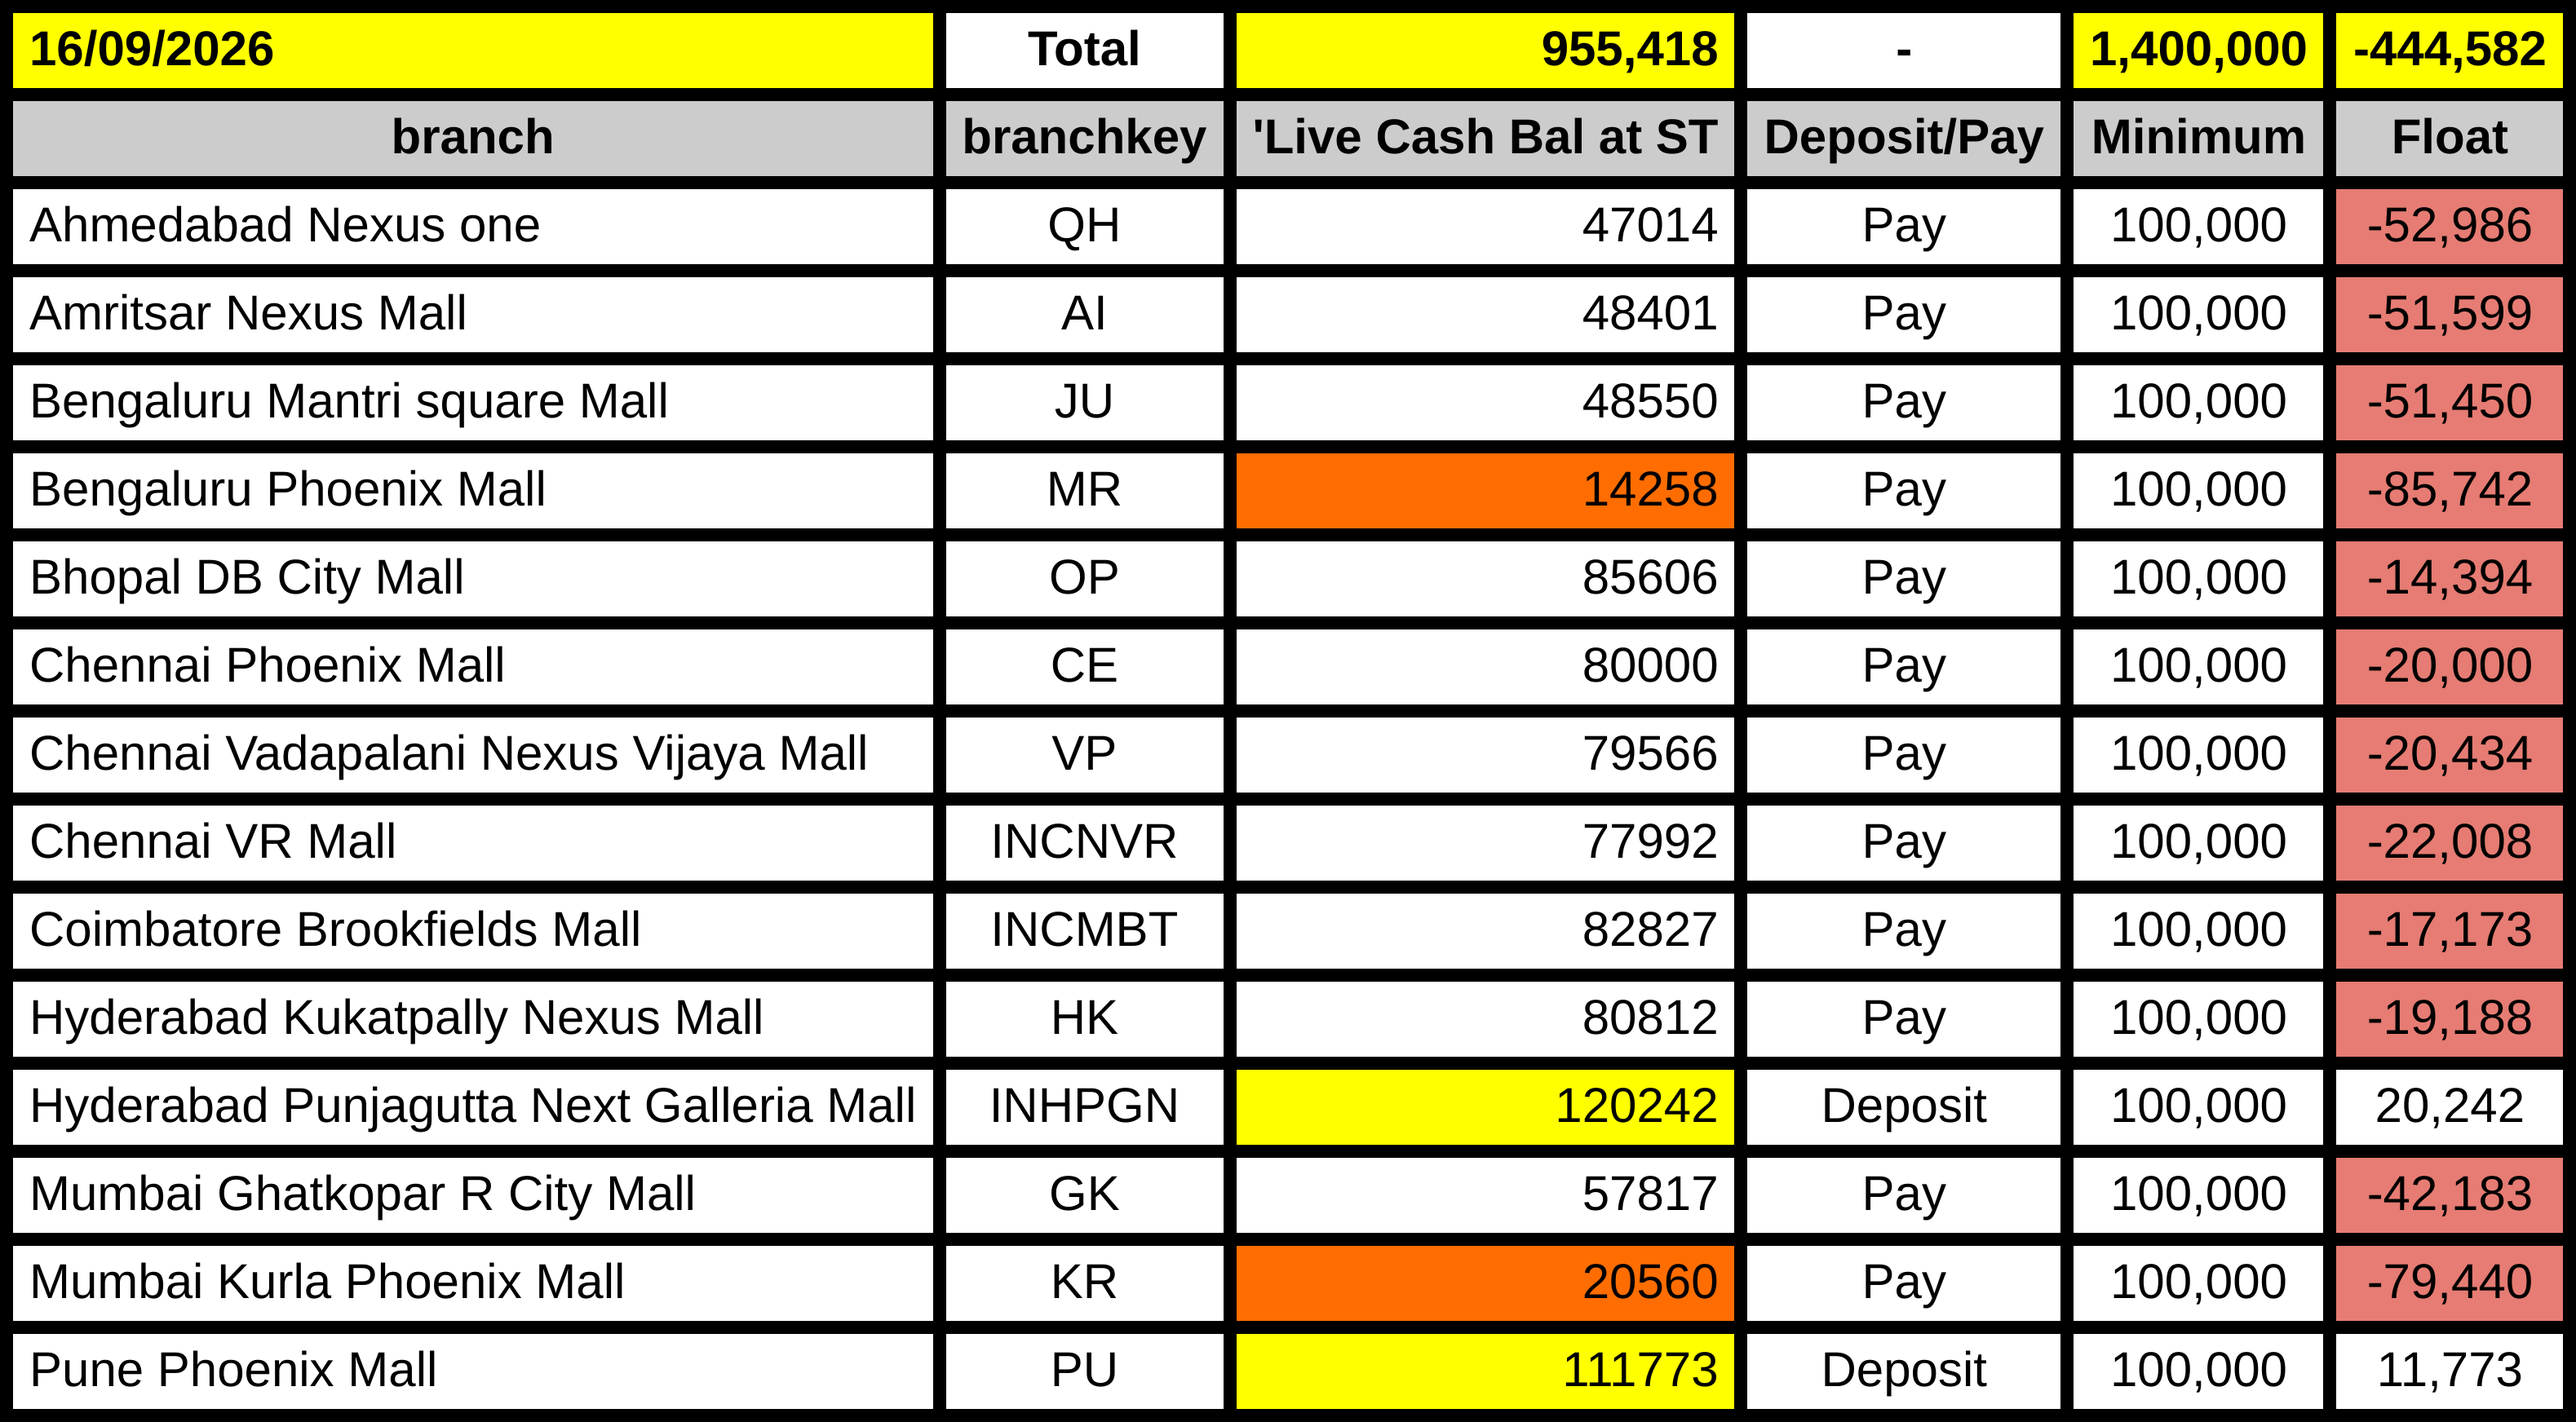
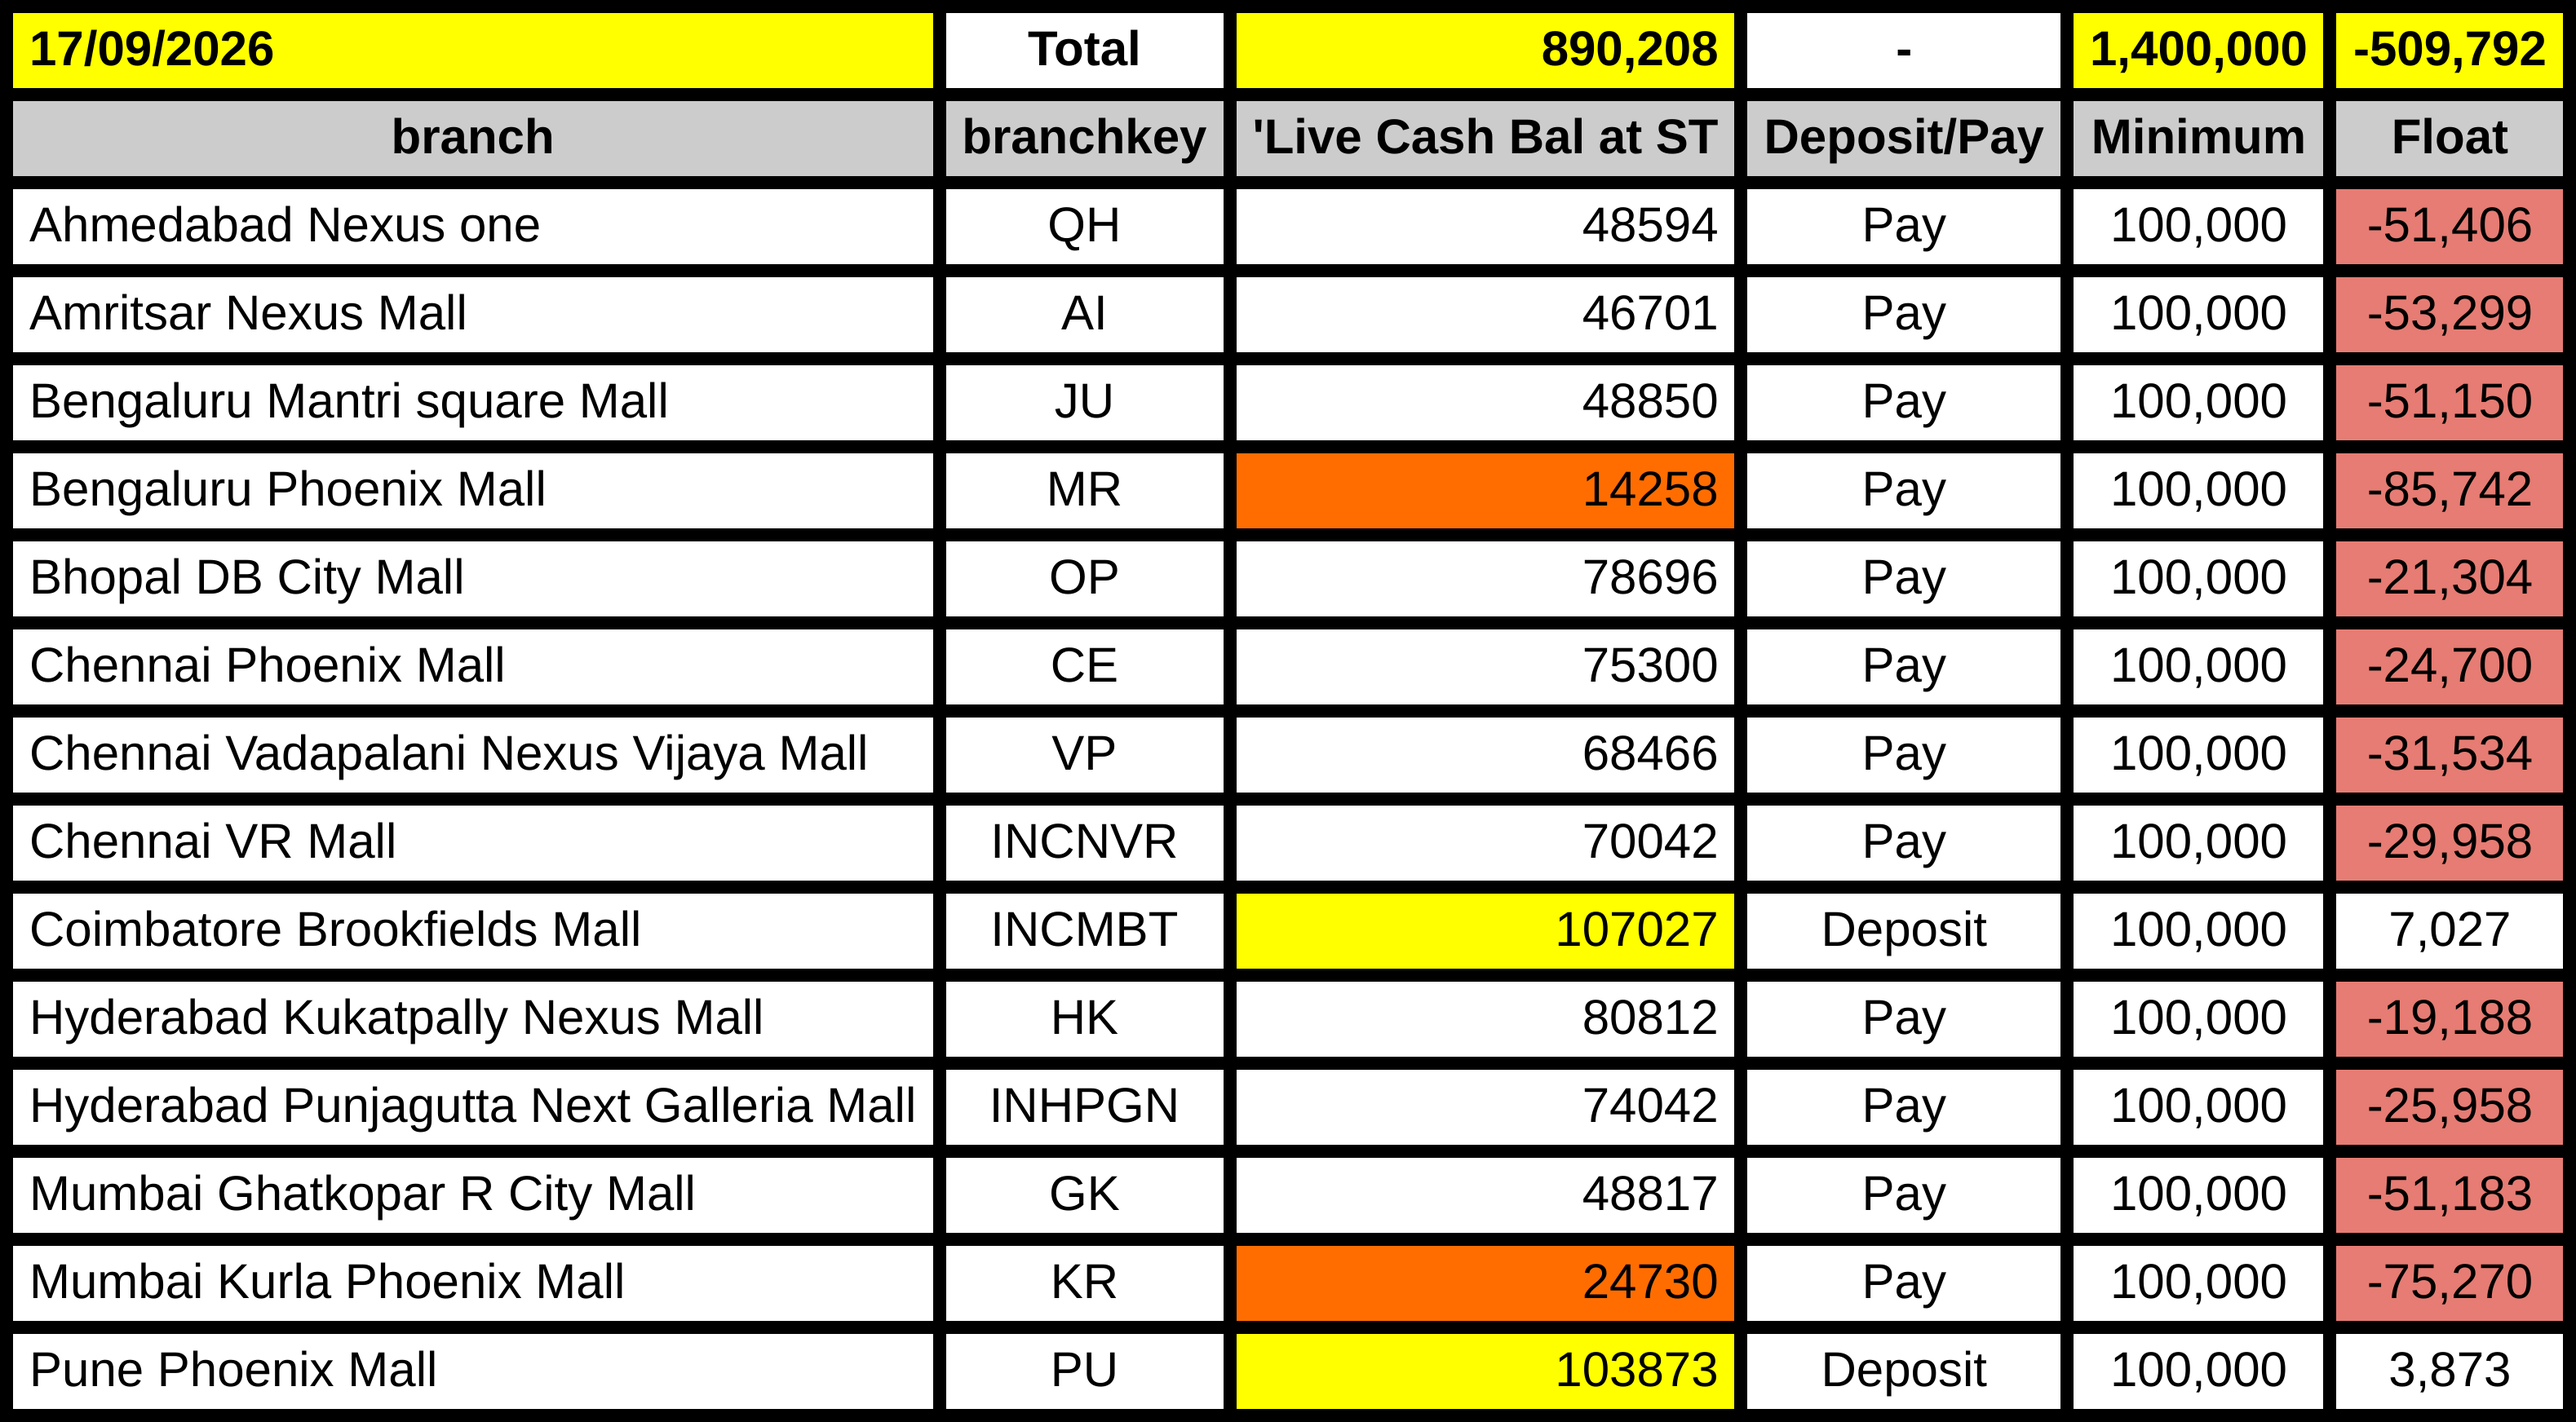
deploy: 1eb6ce62876c9d41067b4594acfaffc291ee4c8b

diff --git a/table.html b/table.html
@@ -21,7 +21,7 @@
           font-family: Arial, sans-serif;
           font-size: 30px;
           white-space: nowrap;
-        ">16/09/2026</td>
+        ">17/09/2026</td>
       
         <td style="
           background-color: #ffffff;
@@ -49,7 +49,7 @@
           font-family: Arial, sans-serif;
           font-size: 30px;
           white-space: nowrap;
-        ">955,418</td>
+        ">890,208</td>
       
         <td style="
           background-color: #ffffff;
@@ -91,7 +91,7 @@
           font-family: Arial, sans-serif;
           font-size: 30px;
           white-space: nowrap;
-        ">-444,582</td>
+        ">-509,792</td>
       </tr><tr>
         <td style="
           background-color: #cccccc;
@@ -217,7 +217,7 @@
           font-family: Arial, sans-serif;
           font-size: 30px;
           white-space: nowrap;
-        ">47014</td>
+        ">48594</td>
       
         <td style="
           background-color: #ffffff;
@@ -259,7 +259,7 @@
           font-family: Arial, sans-serif;
           font-size: 30px;
           white-space: nowrap;
-        ">-52,986</td>
+        ">-51,406</td>
       </tr><tr>
         <td style="
           background-color: #ffffff;
@@ -301,7 +301,7 @@
           font-family: Arial, sans-serif;
           font-size: 30px;
           white-space: nowrap;
-        ">48401</td>
+        ">46701</td>
       
         <td style="
           background-color: #ffffff;
@@ -343,7 +343,7 @@
           font-family: Arial, sans-serif;
           font-size: 30px;
           white-space: nowrap;
-        ">-51,599</td>
+        ">-53,299</td>
       </tr><tr>
         <td style="
           background-color: #ffffff;
@@ -385,7 +385,7 @@
           font-family: Arial, sans-serif;
           font-size: 30px;
           white-space: nowrap;
-        ">48550</td>
+        ">48850</td>
       
         <td style="
           background-color: #ffffff;
@@ -427,7 +427,7 @@
           font-family: Arial, sans-serif;
           font-size: 30px;
           white-space: nowrap;
-        ">-51,450</td>
+        ">-51,150</td>
       </tr><tr>
         <td style="
           background-color: #ffffff;
@@ -553,7 +553,7 @@
           font-family: Arial, sans-serif;
           font-size: 30px;
           white-space: nowrap;
-        ">85606</td>
+        ">78696</td>
       
         <td style="
           background-color: #ffffff;
@@ -595,7 +595,7 @@
           font-family: Arial, sans-serif;
           font-size: 30px;
           white-space: nowrap;
-        ">-14,394</td>
+        ">-21,304</td>
       </tr><tr>
         <td style="
           background-color: #ffffff;
@@ -637,7 +637,7 @@
           font-family: Arial, sans-serif;
           font-size: 30px;
           white-space: nowrap;
-        ">80000</td>
+        ">75300</td>
       
         <td style="
           background-color: #ffffff;
@@ -679,7 +679,7 @@
           font-family: Arial, sans-serif;
           font-size: 30px;
           white-space: nowrap;
-        ">-20,000</td>
+        ">-24,700</td>
       </tr><tr>
         <td style="
           background-color: #ffffff;
@@ -721,7 +721,7 @@
           font-family: Arial, sans-serif;
           font-size: 30px;
           white-space: nowrap;
-        ">79566</td>
+        ">68466</td>
       
         <td style="
           background-color: #ffffff;
@@ -763,7 +763,7 @@
           font-family: Arial, sans-serif;
           font-size: 30px;
           white-space: nowrap;
-        ">-20,434</td>
+        ">-31,534</td>
       </tr><tr>
         <td style="
           background-color: #ffffff;
@@ -805,7 +805,7 @@
           font-family: Arial, sans-serif;
           font-size: 30px;
           white-space: nowrap;
-        ">77992</td>
+        ">70042</td>
       
         <td style="
           background-color: #ffffff;
@@ -847,7 +847,7 @@
           font-family: Arial, sans-serif;
           font-size: 30px;
           white-space: nowrap;
-        ">-22,008</td>
+        ">-29,958</td>
       </tr><tr>
         <td style="
           background-color: #ffffff;
@@ -878,7 +878,7 @@
         ">INCMBT</td>
       
         <td style="
-          background-color: #ffffff;
+          background-color: #ffff00;
           color: #000000;
           font-weight: normal;
           font-style: normal;
@@ -889,7 +889,7 @@
           font-family: Arial, sans-serif;
           font-size: 30px;
           white-space: nowrap;
-        ">82827</td>
+        ">107027</td>
       
         <td style="
           background-color: #ffffff;
@@ -903,7 +903,7 @@
           font-family: Arial, sans-serif;
           font-size: 30px;
           white-space: nowrap;
-        ">Pay</td>
+        ">Deposit</td>
       
         <td style="
           background-color: #ffffff;
@@ -920,7 +920,7 @@
         ">100,000</td>
       
         <td style="
-          background-color: #e67c73;
+          background-color: #ffffff;
           color: #000000;
           font-weight: normal;
           font-style: normal;
@@ -931,7 +931,7 @@
           font-family: Arial, sans-serif;
           font-size: 30px;
           white-space: nowrap;
-        ">-17,173</td>
+        ">7,027</td>
       </tr><tr>
         <td style="
           background-color: #ffffff;
@@ -1046,7 +1046,7 @@
         ">INHPGN</td>
       
         <td style="
-          background-color: #ffff00;
+          background-color: #ffffff;
           color: #000000;
           font-weight: normal;
           font-style: normal;
@@ -1057,7 +1057,7 @@
           font-family: Arial, sans-serif;
           font-size: 30px;
           white-space: nowrap;
-        ">120242</td>
+        ">74042</td>
       
         <td style="
           background-color: #ffffff;
@@ -1071,7 +1071,7 @@
           font-family: Arial, sans-serif;
           font-size: 30px;
           white-space: nowrap;
-        ">Deposit</td>
+        ">Pay</td>
       
         <td style="
           background-color: #ffffff;
@@ -1088,7 +1088,7 @@
         ">100,000</td>
       
         <td style="
-          background-color: #ffffff;
+          background-color: #e67c73;
           color: #000000;
           font-weight: normal;
           font-style: normal;
@@ -1099,7 +1099,7 @@
           font-family: Arial, sans-serif;
           font-size: 30px;
           white-space: nowrap;
-        ">20,242</td>
+        ">-25,958</td>
       </tr><tr>
         <td style="
           background-color: #ffffff;
@@ -1141,7 +1141,7 @@
           font-family: Arial, sans-serif;
           font-size: 30px;
           white-space: nowrap;
-        ">57817</td>
+        ">48817</td>
       
         <td style="
           background-color: #ffffff;
@@ -1183,7 +1183,7 @@
           font-family: Arial, sans-serif;
           font-size: 30px;
           white-space: nowrap;
-        ">-42,183</td>
+        ">-51,183</td>
       </tr><tr>
         <td style="
           background-color: #ffffff;
@@ -1225,7 +1225,7 @@
           font-family: Arial, sans-serif;
           font-size: 30px;
           white-space: nowrap;
-        ">20560</td>
+        ">24730</td>
       
         <td style="
           background-color: #ffffff;
@@ -1267,7 +1267,7 @@
           font-family: Arial, sans-serif;
           font-size: 30px;
           white-space: nowrap;
-        ">-79,440</td>
+        ">-75,270</td>
       </tr><tr>
         <td style="
           background-color: #ffffff;
@@ -1309,7 +1309,7 @@
           font-family: Arial, sans-serif;
           font-size: 30px;
           white-space: nowrap;
-        ">111773</td>
+        ">103873</td>
       
         <td style="
           background-color: #ffffff;
@@ -1351,7 +1351,7 @@
           font-family: Arial, sans-serif;
           font-size: 30px;
           white-space: nowrap;
-        ">11,773</td>
+        ">3,873</td>
       </tr>
   </table>
 </body>
